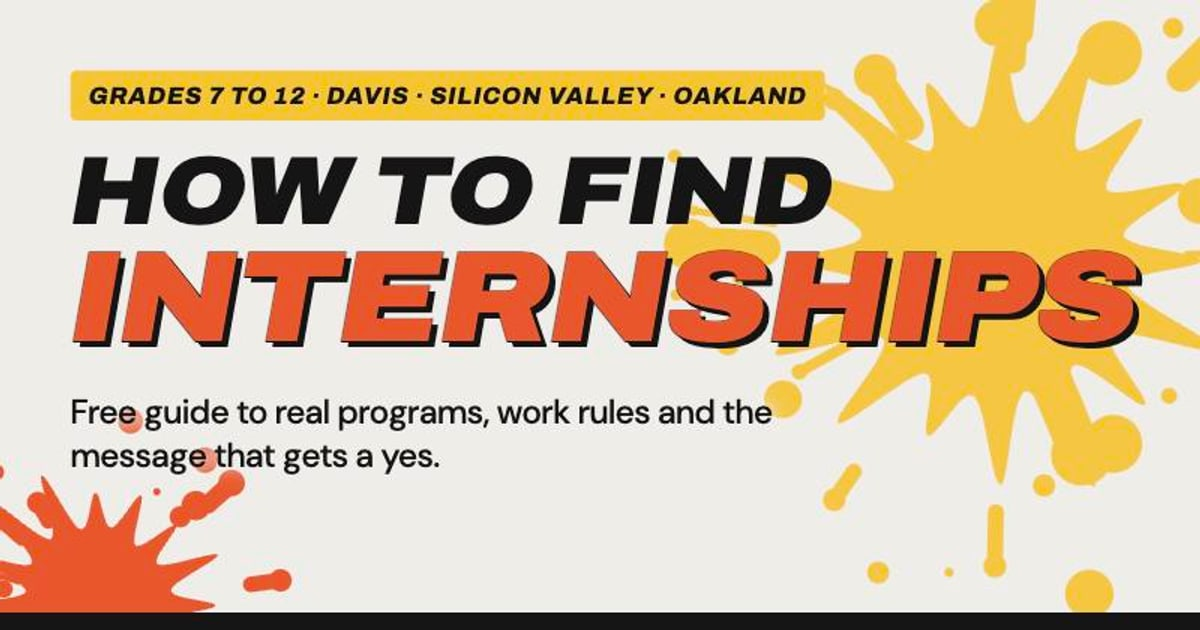
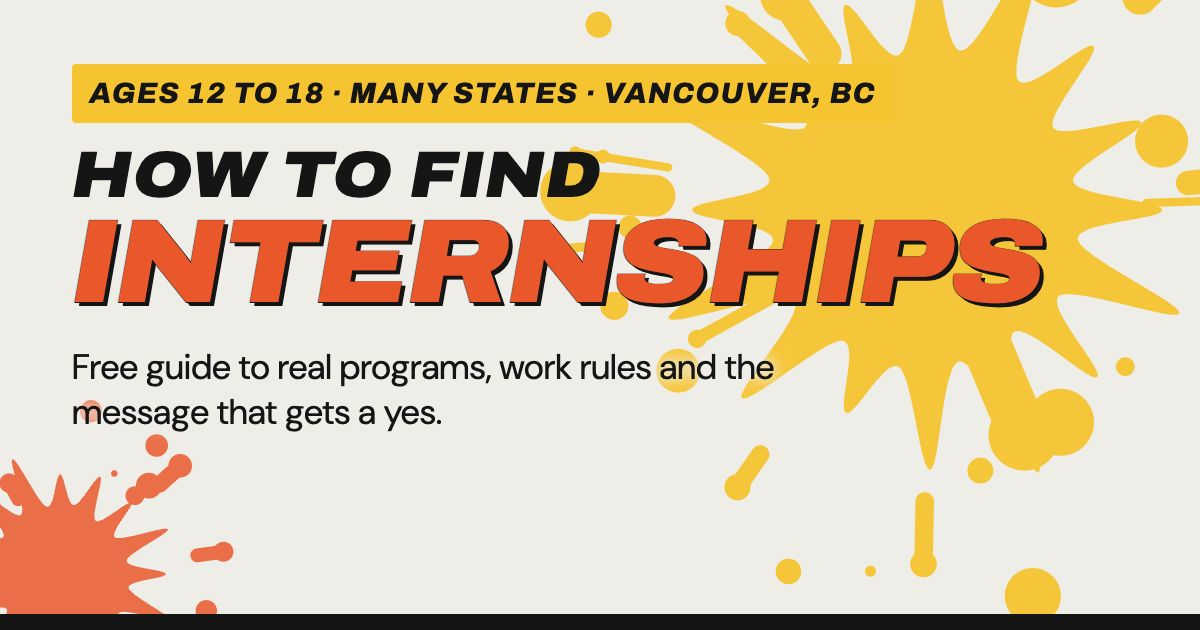
Ages 12 to 18 said the same way everywhere, and small value labels on every Numbers chart
Wording: the home hero eyebrow read "Grades 7 to 12" while the stat tile said ages 12 to 18
and the handout said ages 12 to 18. The eyebrow, the home description, the handout table plan
("Ages 12 and 13" instead of "Grades 7 and 8"), the Help build this level 1 line and the README
now say ages. The share image (assets/img/og.jpg) is redrawn from the live hero styles with the
same eyebrow (it also still named Davis, Silicon Valley and Oakland). The home description drops
the "It started in..." sentence and is now 168 characters, so index.html leaves KNOWN_LONG.
Grade words that describe a program, a law or another site (card grades, 7th grade in the
rules, TeenLife, the survey) are facts and stay.

Charts (insights.js, style.css): every single bar's total sits right after the bar end instead
of in a right-hand column; the track keeps 3.1rem free so a full bar and its number fit.
Stacked bars (paid, free, costs money by area; paid and not paid by age) carry a small count
inside each segment, dark ink on orange and yellow in both themes, theme ink on the paper and
white parts. Container queries hide a label when its segment is under 2.2rem wide or 1.1rem
tall, so nothing overlaps on a phone; browsers without container queries show no in-bar
labels (body.nocq). The written breakdown line under each area row and the per-age split
stay, and the segments stay aria-hidden; the total is not hidden.
[…]

diff --git a/assets/css/style.css b/assets/css/style.css
@@ -329,6 +329,7 @@ main details[open] > summary::after { content: "\2212";
   .k1 { forced-color-adjust: none; background: Highlight; color: HighlightText; }
   .k2 { forced-color-adjust: none; background: CanvasText; color: Canvas; }
   .k3 { forced-color-adjust: none; background: repeating-linear-gradient(45deg, CanvasText 0 2px, Canvas 2px 6px); color: CanvasText; }
+  .cv { color: inherit; }
   .bar.h { forced-color-adjust: none; background: Highlight; }
   .bar.a { forced-color-adjust: none; background: GrayText; }
   .meter > i { forced-color-adjust: none; background: Highlight; }
@@ -572,14 +573,22 @@ tr:last-child th { border-bottom: 0; }
 
 /* insights charts */
 .chart { display: grid; gap: .5rem; }
-.crow { display: grid; grid-template-columns: minmax(7rem, 11rem) minmax(0, 1fr) auto; gap: .6rem; align-items: center; text-decoration: none; color: var(--ink); padding: .15rem 0; }
+.crow { display: grid; grid-template-columns: minmax(7rem, 11rem) minmax(0, 1fr); gap: .6rem; align-items: center; text-decoration: none; color: var(--ink); padding: .15rem 0; }
 @media (hover: hover) { .crow:hover .cl { text-decoration: underline; } }
 .crow .cl { font-weight: 700; }
-.crow .cn { font-family: var(--display); font-style: italic; font-weight: 900; min-width: 2.2rem; text-align: right; }
+.crow .cn { font-family: var(--display); font-style: italic; font-weight: 900; font-size: .95rem; margin-left: .4rem; align-self: center; white-space: nowrap; }
 .crow .cn small { font-family: var(--body, inherit); font-style: normal; font-weight: 500; color: var(--ink-2); }
-.ctrack { display: flex; height: 1.7rem; border-left: 3px solid var(--edge); }
-.ctrack i { display: block; height: 100%; border: 3px solid var(--edge); border-left: 0; min-width: 4px; }
+/* The track keeps 3.1rem free on the right for the total, so a 100 percent bar and its number both fit. */
+.ctrack { display: flex; height: 1.7rem; border-left: 3px solid var(--edge); padding-right: 3.1rem; }
+.ctrack > * { flex-shrink: 0; }
+.ctrack i { display: flex; align-items: center; justify-content: center; height: 100%; border: 3px solid var(--edge); border-left: 0; min-width: 4px; overflow: hidden; container-type: inline-size; }
 .ctrack.multi i + i { border-left: 0; margin-left: -3px; }
+/* Small value labels inside bar segments. Dark ink on orange and yellow in both themes; the paper and white parts use the theme ink. */
+.cv { font-family: var(--body); font-size: .75rem; font-weight: 700; line-height: 1; padding: 0 .25rem; white-space: nowrap; color: var(--ink); }
+.k1 .cv, .k2 .cv { color: #151515; }
+@container (width < 2.2rem) { .ctrack .cv { display: none; } }
+@container (height < 1.1rem) { .cbar .cv { display: none; } }
+.nocq .cv { display: none; }
 .k1 { background: var(--orange); }
 .k2 { background: #f6c431; }
 .k3 { background: var(--paper-2); }
@@ -587,8 +596,9 @@ tr:last-child th { border-bottom: 0; }
 .ccol { flex: 1; display: grid; grid-template-rows: auto 1fr auto; justify-items: center; height: 100%; text-decoration: none; color: var(--ink); gap: .3rem; min-width: 0; }
 @media (hover: hover) { .ccol:hover .cl { text-decoration: underline; } }
 .ccol .cbar { width: 100%; display: flex; align-items: flex-end; border-bottom: 3px solid var(--edge); }
-.ccol .cbar i { display: flex; align-items: flex-end; width: 100%; border: 3px solid var(--edge); border-bottom: 0; background: var(--surface); }
-.ccol .cbar i b { display: block; width: 100%; border-top: 3px solid var(--edge); }
+.ccol .cbar i { display: flex; flex-direction: column; justify-content: flex-end; width: 100%; border: 3px solid var(--edge); border-bottom: 0; background: var(--surface); }
+.ccol .cbar i > b { display: flex; align-items: center; justify-content: center; width: 100%; border-top: 3px solid var(--edge); overflow: hidden; container-type: size; }
+.ccol .cbar .cw { display: flex; align-items: center; justify-content: center; flex: 1 1 0; min-height: 0; overflow: hidden; container-type: size; }
 .ccol .cn { font-family: var(--display); font-style: italic; font-weight: 900; }
 .ccol .cl { font-weight: 700; font-size: .9rem; display: block; text-align: center; }
 .legend { margin-top: .8rem; align-items: center; font-size: .9rem; }
@@ -601,7 +611,7 @@ tr:last-child th { border-bottom: 0; }
 .ccol .csplit .key.kw { background: var(--surface); }
 .legend .key:first-child { margin-left: 0; }
 @media (max-width: 40rem) {
-  .crow { grid-template-columns: minmax(5.5rem, 8rem) minmax(0, 1fr) auto; font-size: .92rem; }
+  .crow { grid-template-columns: minmax(5.5rem, 8rem) minmax(0, 1fr); font-size: .92rem; }
   .chart.cols { gap: .35rem; }
 }
 

diff --git a/assets/js/insights.js b/assets/js/insights.js
@@ -10,10 +10,12 @@
     el.innerHTML = items.map(function (it) {
       var href = hrefOf(it), tag = href ? "a" : "div";
       return "<" + tag + ' class="crow"' + (href ? ' href="' + G.esc(href) + '"' : "") + '><span class="cl">' + G.esc(it.label) + '</span>' +
-        '<span class="ctrack"><i class="' + (cls || "k1") + '" style="width:' + (max ? Math.max(it.n ? 2 : 0, Math.round(it.n / max * 100)) : 0) + '%"></i></span>' +
-        '<span class="cn">' + it.n + "</span></" + tag + ">";
+        '<span class="ctrack"><i class="' + (cls || "k1") + '" style="width:' + (max ? Math.max(it.n ? 2 : 0, Math.round(it.n / max * 100)) : 0) + '%"></i>' +
+        '<span class="cn">' + it.n + "</span></span></" + tag + ">";
     }).join("");
   }
+
+  if (!("container" in document.documentElement.style)) document.body.classList.add("nocq");
 
   G.loadEntries("stats").then(function (list) {
     var d = L.insights(list, Date.now()), f = d.facts;
@@ -34,18 +36,19 @@
     $("ageLead").textContent = "At 13, " + d.ages[0].n + " programs are open to you. At 16, it is " + d.ages[3].n + ". Paid options grow " + f.paidJump + " percent between 14 and 16 (" + d.ages[1].paid + " to " + d.ages[3].paid + "). Under 16, look hard at volunteering, school programs and the people you know.";
     $("chartAge").innerHTML = d.ages.map(function (a) {
       var h = Math.round(a.n / amax * 100), hp = a.n ? Math.round(a.paid / a.n * 100) : 0;
-      return '<a class="ccol" href="' + G.esc(link({ age: a.age })) + '" aria-label="Age ' + a.age + ": " + a.n + " programs, " + a.paid + " paid, " + (a.n - a.paid) + ' not paid or pay not stated"><span class="cn">' + a.n + '</span><span class="cbar"><i class="k3" style="height:' + h + '%"><b class="k1" style="height:' + hp + '%"></b></i></span><span class="cl">Age ' + a.age + '<span class="csplit small"><span><i class="key k1" aria-hidden="true"></i>' + a.paid + '</span><span><i class="key kw" aria-hidden="true"></i>' + (a.n - a.paid) + '</span></span></span></a>';
+      return '<a class="ccol" href="' + G.esc(link({ age: a.age })) + '" aria-label="Age ' + a.age + ": " + a.n + " programs, " + a.paid + " paid, " + (a.n - a.paid) + ' not paid or pay not stated"><span class="cn">' + a.n + '</span><span class="cbar"><i class="k3" style="height:' + h + '%"><span class="cw"><span class="cv">' + (a.n - a.paid) + '</span></span><b class="k1" style="height:' + hp + '%"><span class="cv">' + a.paid + '</span></b></i></span><span class="cl">Age ' + a.age + '<span class="csplit small"><span><i class="key k1" aria-hidden="true"></i>' + a.paid + '</span><span><i class="key kw" aria-hidden="true"></i>' + (a.n - a.paid) + '</span></span></span></a>';
     }).join("");
 
     /* hubs, stacked. The counts are written out as text under each bar, so screen readers and
-       keyboard users get them without color or hover. The bar segments are decoration only. */
+       keyboard users get them without color or hover. The bar segments are decoration only; the
+       small number inside each segment repeats the text and hides when the segment is too narrow. */
     var hmax = Math.max.apply(null, d.hubs.map(function (h) { return h.n; }));
     $("chartHubs").innerHTML = d.hubs.map(function (h) {
-      var seg = function (n, cls) { return n ? '<i class="' + cls + '" aria-hidden="true" style="width:' + (n / hmax * 100) + '%"></i>' : ""; };
+      var seg = function (n, cls) { return n ? '<i class="' + cls + '" aria-hidden="true" style="width:' + (n / hmax * 100) + '%"><span class="cv">' + n + '</span></i>' : ""; };
       var parts = [h.pay + " paid", h.free + " free", h.fee + " costs money"];
       if (h.unknown) parts.push(h.unknown + " pay not stated");
-      return '<a class="crow" href="' + G.esc(link({ where: h.id })) + '"><span class="cl">' + G.esc(h.label) + '</span><span class="ctrack multi" aria-hidden="true">' +
-        seg(h.pay, "k1") + seg(h.free, "k2") + seg(h.fee, "k3") + '</span><span class="cn">' + h.n + '</span>' +
+      return '<a class="crow" href="' + G.esc(link({ where: h.id })) + '"><span class="cl">' + G.esc(h.label) + '</span><span class="ctrack multi">' +
+        seg(h.pay, "k1") + seg(h.free, "k2") + seg(h.fee, "k3") + '<span class="cn">' + h.n + '</span></span>' +
         '<span class="cbreak small muted" style="grid-column:1 / -1">' + parts.join(", ") + "</span></a>";
     }).join("");
 

diff --git a/index.html b/index.html
@@ -7,13 +7,13 @@
 <meta name="color-scheme" content="light dark">
 <meta name="referrer" content="no-referrer">
 <title>How to Find Internships: a Teen Guide for the US and Vancouver</title>
-<meta name="description" content="A free guide for high schoolers in the US and Vancouver, BC. It started in California, Atlanta, New York and Chicago. Real programs, with the deadlines we could confirm, the work-permit rules, and a message you can send.">
+<meta name="description" content="A free guide for teens ages 12 to 18 in the US and Vancouver, BC. Real programs, with the deadlines we could confirm, the work-permit rules, and a message you can send.">
 <meta name="theme-color" media="(prefers-color-scheme: light)" content="#efede8">
 <meta name="theme-color" media="(prefers-color-scheme: dark)" content="#131211">
 <link rel="canonical" href="https://vadneyk.github.io/internships/">
 <meta property="og:type" content="website">
 <meta property="og:title" content="How to Find Internships: a Teen Guide for the US and Vancouver">
-<meta property="og:description" content="A free guide for high schoolers in the US and Vancouver, BC. It started in California, Atlanta, New York and Chicago. Real programs, with the deadlines we could confirm, the work-permit rules, and a message you can send.">
+<meta property="og:description" content="A free guide for teens ages 12 to 18 in the US and Vancouver, BC. Real programs, with the deadlines we could confirm, the work-permit rules, and a message you can send.">
 <meta property="og:url" content="https://vadneyk.github.io/internships/">
 <meta property="og:image" content="https://vadneyk.github.io/internships/assets/img/og.jpg">
 <meta property="og:image:width" content="1200">
@@ -24,8 +24,8 @@
 <link rel="apple-touch-icon" href="apple-touch-icon.png">
 <link rel="preload" href="assets/fonts/archivo-italic-latin.woff2" as="font" type="font/woff2" crossorigin>
 <link rel="preload" href="assets/fonts/dm-sans-latin.woff2" as="font" type="font/woff2" crossorigin>
-<link rel="stylesheet" href="assets/css/fonts.css?v=1bcbd1db">
-<link rel="stylesheet" href="assets/css/style.css?v=1bcbd1db">
+<link rel="stylesheet" href="assets/css/fonts.css?v=72ce2a0d">
+<link rel="stylesheet" href="assets/css/style.css?v=72ce2a0d">
 <script>
 try { var t = localStorage.getItem("theme"); if (t === "dark" || t === "light") document.documentElement.setAttribute("data-theme", t); } catch (e) {}
 document.documentElement.classList.add("js");
@@ -61,7 +61,7 @@ setTimeout(function () { if (!document.querySelector(".top.menu-js")) document.d
   <img class="splat s1" src="assets/img/splat-yellow.svg" alt="" width="800" height="800" decoding="async" fetchpriority="low">
   <img class="splat s2" src="assets/img/splat-orange.svg" alt="" width="800" height="800" decoding="async" fetchpriority="low">
   <div class="wrap inner">
-    <span class="tag y eyebrow">Grades 7 to 12 &middot; Many states &middot; Vancouver, BC</span>
+    <span class="tag y eyebrow">Ages 12 to 18 &middot; Many states &middot; Vancouver, BC</span>
     <h1><span class="a">How to find</span><span class="b stroke">Internships</span></h1>
     <img class="swoosh" src="assets/img/swoosh.svg" alt="" width="600" height="60" decoding="async" fetchpriority="low">
     <p class="lede" style="margin-top:1rem;">A free guide for teens. Pick your age to see real programs, with the deadlines we could confirm, then learn one move that can help: asking a person.</p>
@@ -285,9 +285,9 @@ setTimeout(function () { if (!document.querySelector(".top.menu-js")) document.d
   </div>
 </footer>
 <div class="toast" id="toast" role="status" aria-live="polite"></div>
-<script src="assets/js/lib.js?v=1bcbd1db"></script>
-<script src="assets/js/common.js?v=1bcbd1db"></script>
-<script src="assets/js/home.js?v=1bcbd1db"></script>
+<script src="assets/js/lib.js?v=72ce2a0d"></script>
+<script src="assets/js/common.js?v=72ce2a0d"></script>
+<script src="assets/js/home.js?v=72ce2a0d"></script>
 
 </body>
 </html>

diff --git a/handout.html b/handout.html
@@ -24,8 +24,8 @@
 <link rel="apple-touch-icon" href="apple-touch-icon.png">
 <link rel="preload" href="assets/fonts/archivo-italic-latin.woff2" as="font" type="font/woff2" crossorigin>
 <link rel="preload" href="assets/fonts/dm-sans-latin.woff2" as="font" type="font/woff2" crossorigin>
-<link rel="stylesheet" href="assets/css/fonts.css?v=1bcbd1db">
-<link rel="stylesheet" href="assets/css/style.css?v=1bcbd1db">
+<link rel="stylesheet" href="assets/css/fonts.css?v=72ce2a0d">
+<link rel="stylesheet" href="assets/css/style.css?v=72ce2a0d">
 <script>
 try { var t = localStorage.getItem("theme"); if (t === "dark" || t === "light") document.documentElement.setAttribute("data-theme", t); } catch (e) {}
 document.documentElement.classList.add("js");
@@ -143,7 +143,7 @@ setTimeout(function () { if (!document.querySelector(".top.menu-js")) document.d
         <p><b>When a card says Confirm first:</b> look at the official page together, or write down the contact to ask. Do not promise a spot.</p>
       </div>
       <p class="small"><b>A teen who stops for 2 minutes:</b> ask their age and city, show one program, and name one next step. <b>No phone?</b> Give them the handout with the address on it.</p>
-      <p class="small"><b>Grades 7 and 8:</b> start with the <a href="younger.html">Ages 12 to 14 page</a>.</p>
+      <p class="small"><b>Ages 12 and 13:</b> start with the <a href="younger.html">Ages 12 to 14 page</a>.</p>
       <p class="small"><b>For leaders:</b> do not take photos of teens&rsquo; screens or share their picks.</p>
       <div class="callout plain" id="leaderFeedback" style="margin-top:1rem;max-width:52rem;">
         <h3>Tell us how it went</h3>
@@ -223,8 +223,8 @@ setTimeout(function () { if (!document.querySelector(".top.menu-js")) document.d
   </div>
 </footer>
 <div class="toast" id="toast" role="status" aria-live="polite"></div>
-<script src="assets/js/common.js?v=1bcbd1db"></script>
-<script src="assets/js/handout.js?v=1bcbd1db"></script>
+<script src="assets/js/common.js?v=72ce2a0d"></script>
+<script src="assets/js/handout.js?v=72ce2a0d"></script>
 
 </body>
 </html>

diff --git a/contribute.html b/contribute.html
@@ -24,8 +24,8 @@
 <link rel="apple-touch-icon" href="apple-touch-icon.png">
 <link rel="preload" href="assets/fonts/archivo-italic-latin.woff2" as="font" type="font/woff2" crossorigin>
 <link rel="preload" href="assets/fonts/dm-sans-latin.woff2" as="font" type="font/woff2" crossorigin>
-<link rel="stylesheet" href="assets/css/fonts.css?v=1bcbd1db">
-<link rel="stylesheet" href="assets/css/style.css?v=1bcbd1db">
+<link rel="stylesheet" href="assets/css/fonts.css?v=72ce2a0d">
+<link rel="stylesheet" href="assets/css/style.css?v=72ce2a0d">
 <script>
 try { var t = localStorage.getItem("theme"); if (t === "dark" || t === "light") document.documentElement.setAttribute("data-theme", t); } catch (e) {}
 document.documentElement.classList.add("js");
@@ -78,7 +78,7 @@ setTimeout(function () { if (!document.querySelector(".top.menu-js")) document.d
       <article class="card">
         <span class="tag y">Level 1</span><h3 style="margin-top:.6rem;">Verify and report</h3>
         <p>No coding. Open a program&rsquo;s official page, check the age, pay and dates against the card, and fill out the short form if anything is different.</p>
-        <p class="small muted">Good for: grades 9 to 12, anyone who likes being right.</p>
+        <p class="small muted">Good for: ages 14 to 18, anyone who likes being right.</p>
       </article>
       <article class="card">
         <span class="tag y">Level 2</span><h3 style="margin-top:.6rem;">Add a program</h3>
@@ -211,7 +211,7 @@ setTimeout(function () { if (!document.querySelector(".top.menu-js")) document.d
   </div>
 </footer>
 <div class="toast" id="toast" role="status" aria-live="polite"></div>
-<script src="assets/js/common.js?v=1bcbd1db"></script>
+<script src="assets/js/common.js?v=72ce2a0d"></script>
 
 </body>
 </html>

diff --git a/src/index.html b/src/index.html
@@ -1,12 +1,12 @@
 title: How to Find Internships: a Teen Guide for the US and Vancouver
-desc: A free guide for high schoolers in the US and Vancouver, BC. It started in California, Atlanta, New York and Chicago. Real programs, with the deadlines we could confirm, the work-permit rules, and a message you can send.
+desc: A free guide for teens ages 12 to 18 in the US and Vancouver, BC. Real programs, with the deadlines we could confirm, the work-permit rules, and a message you can send.
 scripts: home
 ---
 <section class="hero" style="padding-top:2.2rem;">
   <img class="splat s1" src="assets/img/splat-yellow.svg" alt="" width="800" height="800" decoding="async" fetchpriority="low">
   <img class="splat s2" src="assets/img/splat-orange.svg" alt="" width="800" height="800" decoding="async" fetchpriority="low">
   <div class="wrap inner">
-    <span class="tag y eyebrow">Grades 7 to 12 &middot; Many states &middot; Vancouver, BC</span>
+    <span class="tag y eyebrow">Ages 12 to 18 &middot; Many states &middot; Vancouver, BC</span>
     <h1><span class="a">How to find</span><span class="b stroke">Internships</span></h1>
     <img class="swoosh" src="assets/img/swoosh.svg" alt="" width="600" height="60" decoding="async" fetchpriority="low">
     <p class="lede" style="margin-top:1rem;">A free guide for teens. Pick your age to see real programs, with the deadlines we could confirm, then learn one move that can help: asking a person.</p>

diff --git a/interview.html b/interview.html
@@ -24,8 +24,8 @@
 <link rel="apple-touch-icon" href="apple-touch-icon.png">
 <link rel="preload" href="assets/fonts/archivo-italic-latin.woff2" as="font" type="font/woff2" crossorigin>
 <link rel="preload" href="assets/fonts/dm-sans-latin.woff2" as="font" type="font/woff2" crossorigin>
-<link rel="stylesheet" href="assets/css/fonts.css?v=1bcbd1db">
-<link rel="stylesheet" href="assets/css/style.css?v=1bcbd1db">
+<link rel="stylesheet" href="assets/css/fonts.css?v=72ce2a0d">
+<link rel="stylesheet" href="assets/css/style.css?v=72ce2a0d">
 <script>
 try { var t = localStorage.getItem("theme"); if (t === "dark" || t === "light") document.documentElement.setAttribute("data-theme", t); } catch (e) {}
 document.documentElement.classList.add("js");
@@ -223,9 +223,9 @@ setTimeout(function () { if (!document.querySelector(".top.menu-js")) document.d
   </div>
 </footer>
 <div class="toast" id="toast" role="status" aria-live="polite"></div>
-<script src="assets/js/lib.js?v=1bcbd1db"></script>
-<script src="assets/js/common.js?v=1bcbd1db"></script>
-<script src="assets/js/interview.js?v=1bcbd1db"></script>
+<script src="assets/js/lib.js?v=72ce2a0d"></script>
+<script src="assets/js/common.js?v=72ce2a0d"></script>
+<script src="assets/js/interview.js?v=72ce2a0d"></script>
 
 </body>
 </html>

diff --git a/languages.html b/languages.html
@@ -24,8 +24,8 @@
 <link rel="apple-touch-icon" href="apple-touch-icon.png">
 <link rel="preload" href="assets/fonts/archivo-italic-latin.woff2" as="font" type="font/woff2" crossorigin>
 <link rel="preload" href="assets/fonts/dm-sans-latin.woff2" as="font" type="font/woff2" crossorigin>
-<link rel="stylesheet" href="assets/css/fonts.css?v=1bcbd1db">
-<link rel="stylesheet" href="assets/css/style.css?v=1bcbd1db">
+<link rel="stylesheet" href="assets/css/fonts.css?v=72ce2a0d">
+<link rel="stylesheet" href="assets/css/style.css?v=72ce2a0d">
 <script>
 try { var t = localStorage.getItem("theme"); if (t === "dark" || t === "light") document.documentElement.setAttribute("data-theme", t); } catch (e) {}
 document.documentElement.classList.add("js");
@@ -139,9 +139,9 @@ setTimeout(function () { if (!document.querySelector(".top.menu-js")) document.d
   </div>
 </footer>
 <div class="toast" id="toast" role="status" aria-live="polite"></div>
-<script src="assets/js/lib.js?v=1bcbd1db"></script>
-<script src="assets/js/common.js?v=1bcbd1db"></script>
-<script src="assets/js/languages.js?v=1bcbd1db"></script>
+<script src="assets/js/lib.js?v=72ce2a0d"></script>
+<script src="assets/js/common.js?v=72ce2a0d"></script>
+<script src="assets/js/languages.js?v=72ce2a0d"></script>
 
 </body>
 </html>

diff --git a/calendar.html b/calendar.html
@@ -24,8 +24,8 @@
 <link rel="apple-touch-icon" href="apple-touch-icon.png">
 <link rel="preload" href="assets/fonts/archivo-italic-latin.woff2" as="font" type="font/woff2" crossorigin>
 <link rel="preload" href="assets/fonts/dm-sans-latin.woff2" as="font" type="font/woff2" crossorigin>
-<link rel="stylesheet" href="assets/css/fonts.css?v=1bcbd1db">
-<link rel="stylesheet" href="assets/css/style.css?v=1bcbd1db">
+<link rel="stylesheet" href="assets/css/fonts.css?v=72ce2a0d">
+<link rel="stylesheet" href="assets/css/style.css?v=72ce2a0d">
 <script>
 try { var t = localStorage.getItem("theme"); if (t === "dark" || t === "light") document.documentElement.setAttribute("data-theme", t); } catch (e) {}
 document.documentElement.classList.add("js");
@@ -156,9 +156,9 @@ setTimeout(function () { if (!document.querySelector(".top.menu-js")) document.d
   </div>
 </footer>
 <div class="toast" id="toast" role="status" aria-live="polite"></div>
-<script src="assets/js/lib.js?v=1bcbd1db"></script>
-<script src="assets/js/common.js?v=1bcbd1db"></script>
-<script src="assets/js/calendar.js?v=1bcbd1db"></script>
+<script src="assets/js/lib.js?v=72ce2a0d"></script>
+<script src="assets/js/common.js?v=72ce2a0d"></script>
+<script src="assets/js/calendar.js?v=72ce2a0d"></script>
 
 </body>
 </html>

diff --git a/insights.html b/insights.html
@@ -24,8 +24,8 @@
 <link rel="apple-touch-icon" href="apple-touch-icon.png">
 <link rel="preload" href="assets/fonts/archivo-italic-latin.woff2" as="font" type="font/woff2" crossorigin>
 <link rel="preload" href="assets/fonts/dm-sans-latin.woff2" as="font" type="font/woff2" crossorigin>
-<link rel="stylesheet" href="assets/css/fonts.css?v=1bcbd1db">
-<link rel="stylesheet" href="assets/css/style.css?v=1bcbd1db">
+<link rel="stylesheet" href="assets/css/fonts.css?v=72ce2a0d">
+<link rel="stylesheet" href="assets/css/style.css?v=72ce2a0d">
 <script>
 try { var t = localStorage.getItem("theme"); if (t === "dark" || t === "light") document.documentElement.setAttribute("data-theme", t); } catch (e) {}
 document.documentElement.classList.add("js");
@@ -223,9 +223,9 @@ setTimeout(function () { if (!document.querySelector(".top.menu-js")) document.d
   </div>
 </footer>
 <div class="toast" id="toast" role="status" aria-live="polite"></div>
-<script src="assets/js/lib.js?v=1bcbd1db"></script>
-<script src="assets/js/common.js?v=1bcbd1db"></script>
-<script src="assets/js/insights.js?v=1bcbd1db"></script>
+<script src="assets/js/lib.js?v=72ce2a0d"></script>
+<script src="assets/js/common.js?v=72ce2a0d"></script>
+<script src="assets/js/insights.js?v=72ce2a0d"></script>
 
 </body>
 </html>

diff --git a/paycheck.html b/paycheck.html
@@ -24,8 +24,8 @@
 <link rel="apple-touch-icon" href="apple-touch-icon.png">
 <link rel="preload" href="assets/fonts/archivo-italic-latin.woff2" as="font" type="font/woff2" crossorigin>
 <link rel="preload" href="assets/fonts/dm-sans-latin.woff2" as="font" type="font/woff2" crossorigin>
-<link rel="stylesheet" href="assets/css/fonts.css?v=1bcbd1db">
-<link rel="stylesheet" href="assets/css/style.css?v=1bcbd1db">
+<link rel="stylesheet" href="assets/css/fonts.css?v=72ce2a0d">
+<link rel="stylesheet" href="assets/css/style.css?v=72ce2a0d">
 <script>
 try { var t = localStorage.getItem("theme"); if (t === "dark" || t === "light") document.documentElement.setAttribute("data-theme", t); } catch (e) {}
 document.documentElement.classList.add("js");
@@ -202,9 +202,9 @@ setTimeout(function () { if (!document.querySelector(".top.menu-js")) document.d
   </div>
 </footer>
 <div class="toast" id="toast" role="status" aria-live="polite"></div>
-<script src="assets/js/lib.js?v=1bcbd1db"></script>
-<script src="assets/js/common.js?v=1bcbd1db"></script>
-<script src="assets/js/paycheck.js?v=1bcbd1db"></script>
+<script src="assets/js/lib.js?v=72ce2a0d"></script>
+<script src="assets/js/common.js?v=72ce2a0d"></script>
+<script src="assets/js/paycheck.js?v=72ce2a0d"></script>
 
 </body>
 </html>

diff --git a/playbook.html b/playbook.html
@@ -24,8 +24,8 @@
 <link rel="apple-touch-icon" href="apple-touch-icon.png">
 <link rel="preload" href="assets/fonts/archivo-italic-latin.woff2" as="font" type="font/woff2" crossorigin>
 <link rel="preload" href="assets/fonts/dm-sans-latin.woff2" as="font" type="font/woff2" crossorigin>
-<link rel="stylesheet" href="assets/css/fonts.css?v=1bcbd1db">
-<link rel="stylesheet" href="assets/css/style.css?v=1bcbd1db">
+<link rel="stylesheet" href="assets/css/fonts.css?v=72ce2a0d">
+<link rel="stylesheet" href="assets/css/style.css?v=72ce2a0d">
 <script>
 try { var t = localStorage.getItem("theme"); if (t === "dark" || t === "light") document.documentElement.setAttribute("data-theme", t); } catch (e) {}
 document.documentElement.classList.add("js");
@@ -320,9 +320,9 @@ setTimeout(function () { if (!document.querySelector(".top.menu-js")) document.d
   </div>
 </footer>
 <div class="toast" id="toast" role="status" aria-live="polite"></div>
-<script src="assets/js/lib.js?v=1bcbd1db"></script>
-<script src="assets/js/common.js?v=1bcbd1db"></script>
-<script src="assets/js/playbook.js?v=1bcbd1db"></script>
+<script src="assets/js/lib.js?v=72ce2a0d"></script>
+<script src="assets/js/common.js?v=72ce2a0d"></script>
+<script src="assets/js/playbook.js?v=72ce2a0d"></script>
 
 </body>
 </html>
